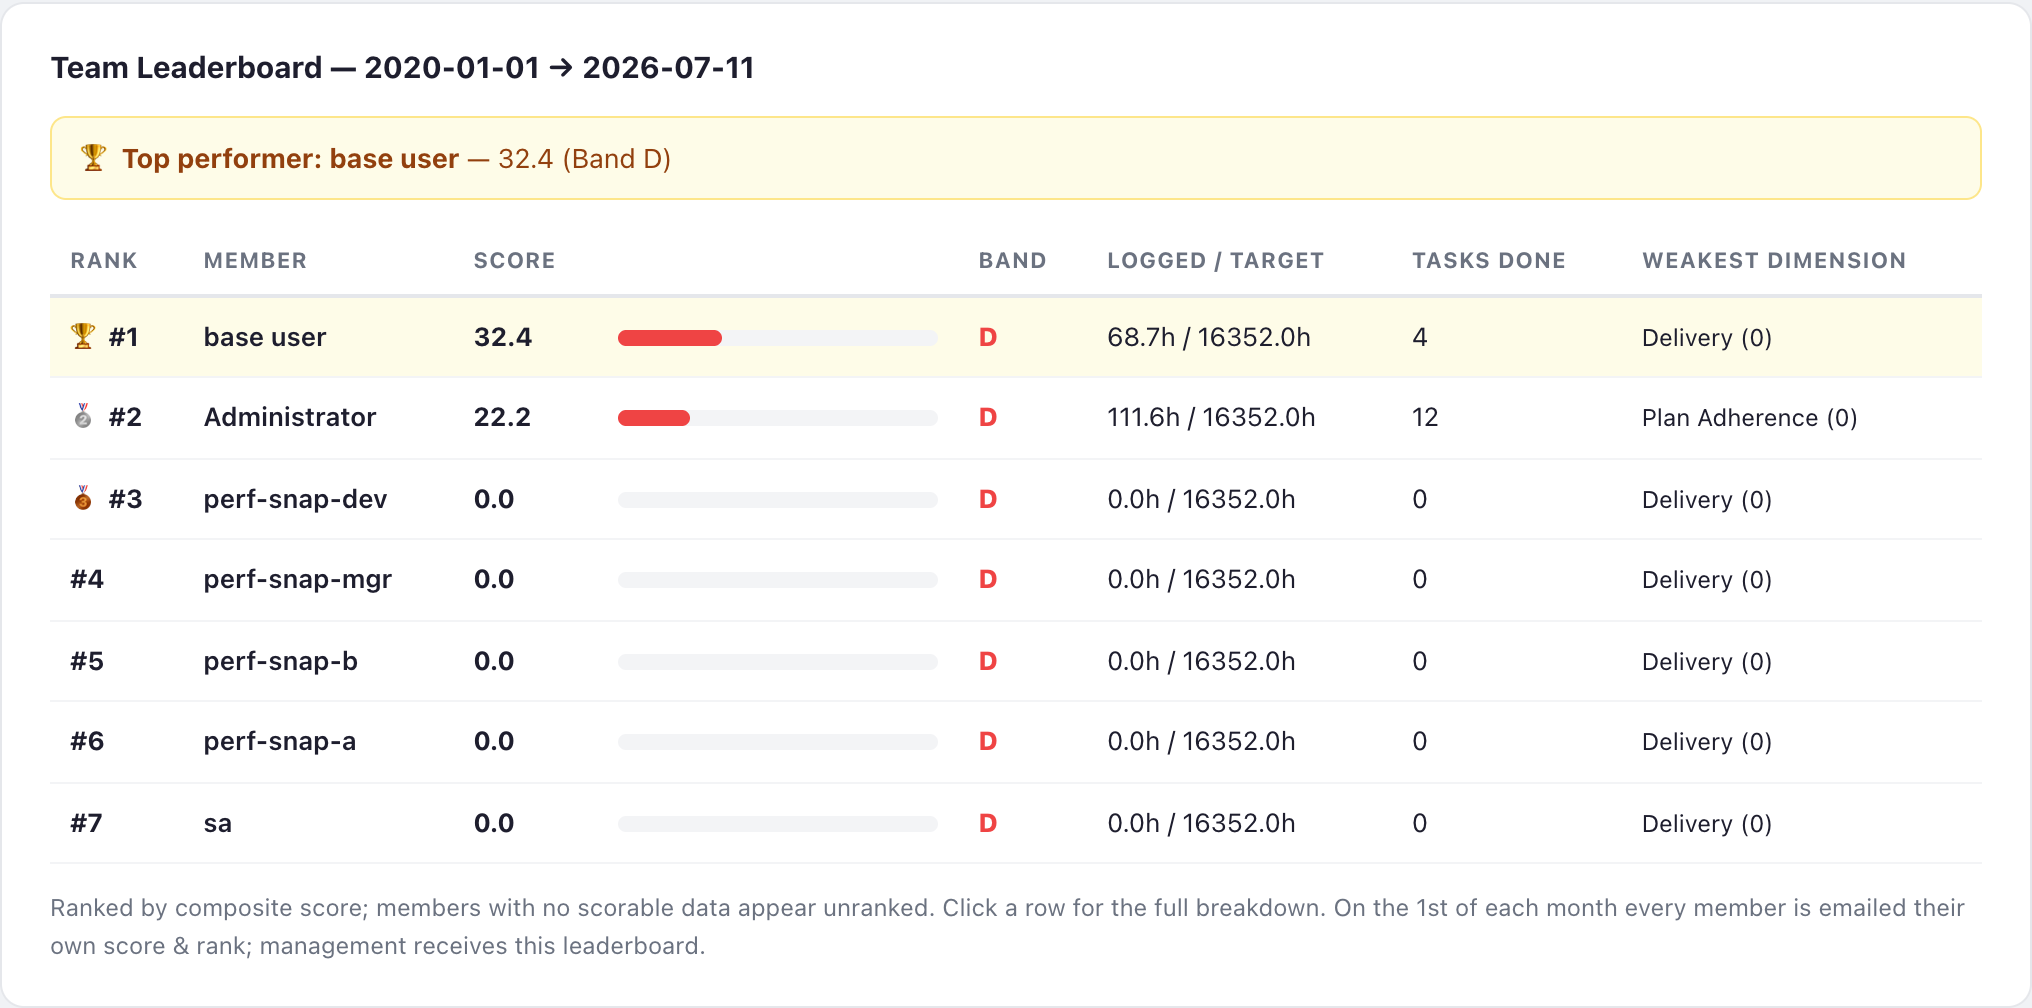
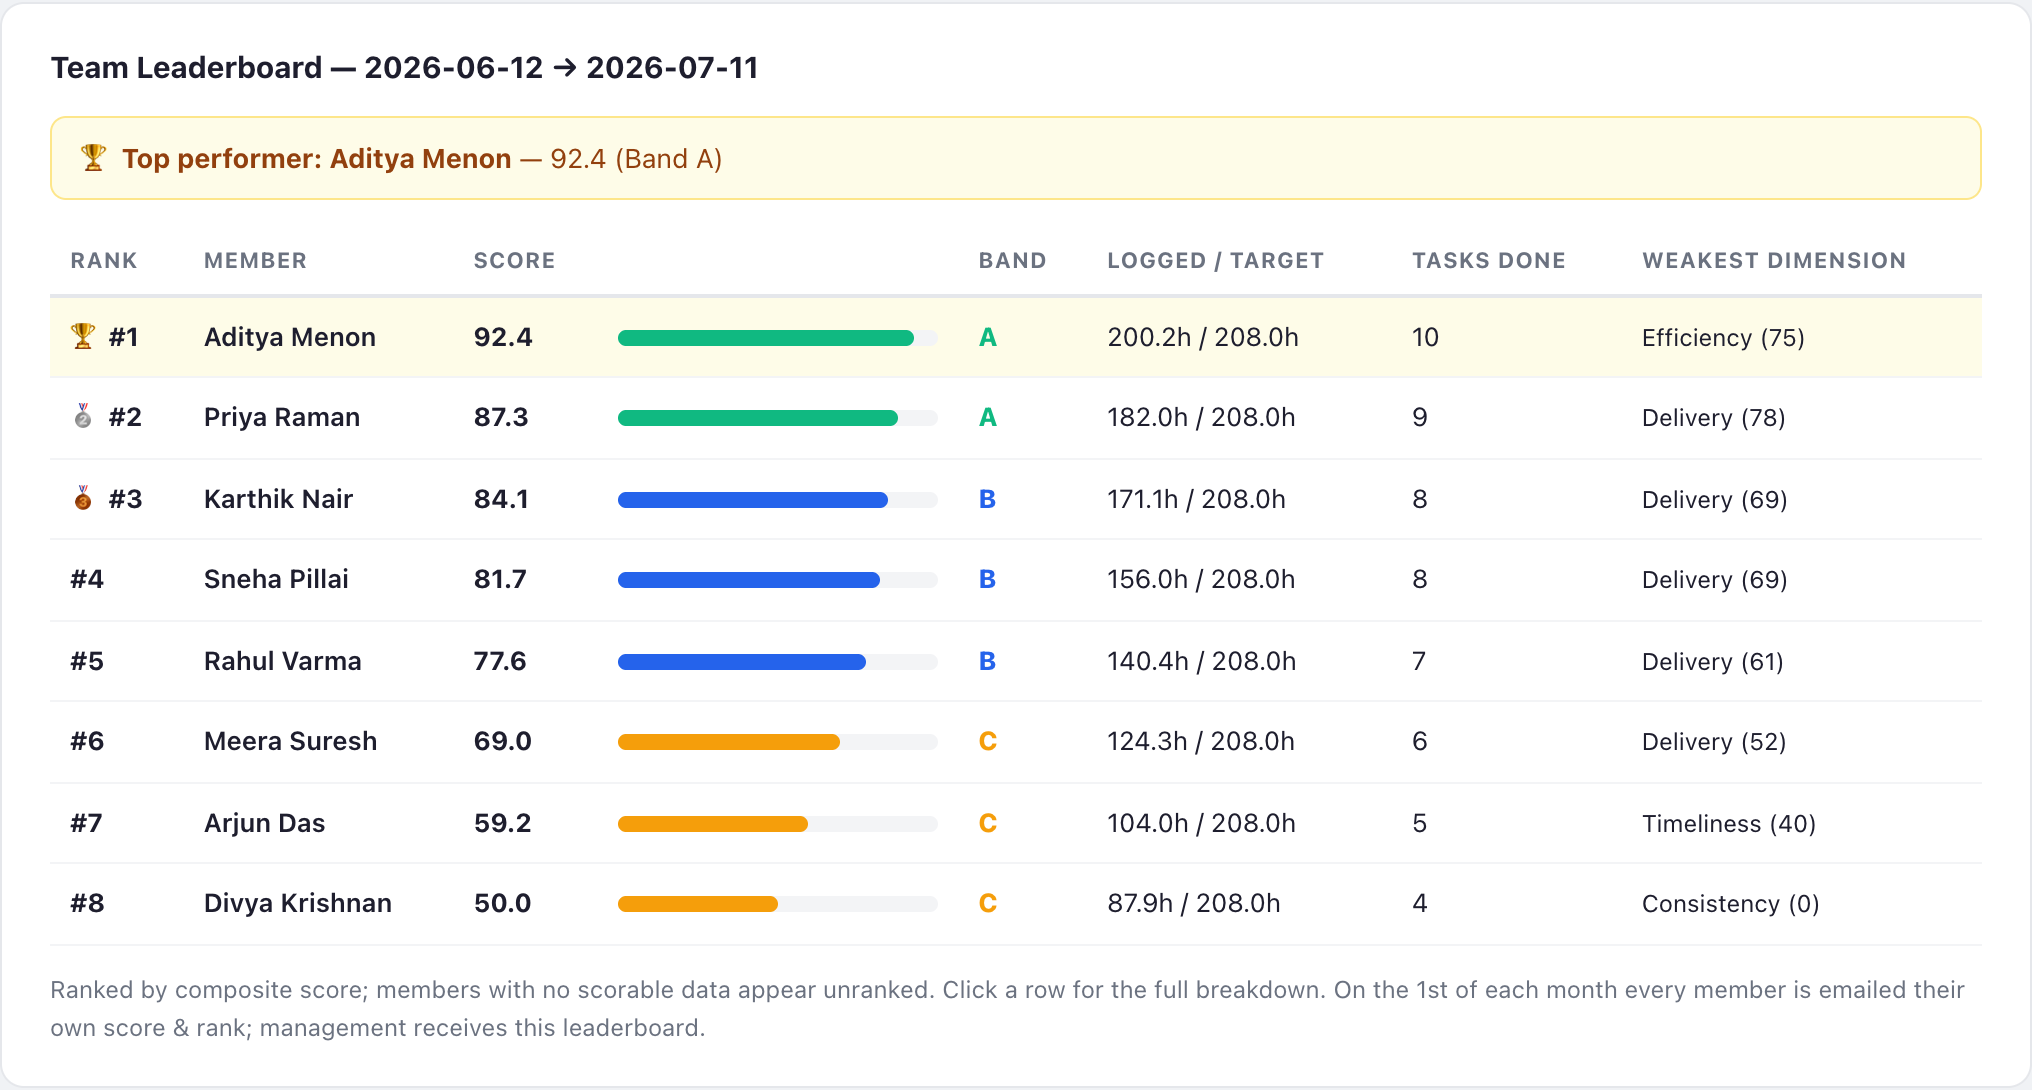
Docs: refresh guide media with realistic data + timer & weekly-plan GIFs
- Re-captured all Performance/Productivity/Tasks stills against a
  seeded 8-member team so the leaderboard shows a real A–C spread and
  named members (no test-user noise); Score History uses a real trend.
- New animated GIFs: timer start→run→stop, and weekly-plan Edit→builder.
- New stills: running timer bar, populated weekly plan, allocation
  matrix builder.
- 16 captioned figures + 3 GIFs total; captions updated to match.

diff --git a/next_pms/www/pms-guide.html b/next_pms/www/pms-guide.html
@@ -207,6 +207,14 @@
       <li><strong>Stop</strong> when done or switching. Duration and cost (hours × your hourly rate) save automatically as a PMS Time Log.</li>
     </ol>
     <p>Review or fix your entries under <strong>Time Logs</strong>. Every report — daily AI report, weekly email, Productivity, Performance — reads from these entries.</p>
+    <figure class="shot gif narrow">
+      <img src="/assets/next_pms/images/guide/timer-start-stop.gif" alt="Animation: Start Timer button becomes a running timer with elapsed time, then stops">
+      <figcaption><span class="tag">▶ Walkthrough</span>One click starts the timer; it counts up live and survives reloads; click again to stop and save a time log.</figcaption>
+    </figure>
+    <figure class="shot">
+      <img src="/assets/next_pms/images/guide/timer-bar.png" alt="Global running-timer bar showing task and elapsed time with a Stop button">
+      <figcaption><span class="tag">Running bar</span>While a timer runs, a bar at the top shows the task and live elapsed time from anywhere in the app — Stop is always one click away.</figcaption>
+    </figure>
     <div class="callout">⚠ Forgot the timer? Log time the same day where possible. Reports window hours by the time-log date; late back-filling distorts your daily consistency metric.</div>
   </section>
 
@@ -228,7 +236,15 @@
     </ul>
     <figure class="shot">
       <img src="/assets/next_pms/images/guide/weekly-plan.png" alt="Weekly Plan projects × people allocation matrix">
-      <figcaption><span class="tag">Weekly Plan</span>The projects × people matrix — planned hours per member, plus priorities, closures and the watch list.</figcaption>
+      <figcaption><span class="tag">Weekly Plan</span>The published plan — hero stats, per-person load vs capacity, and the projects × people allocation matrix.</figcaption>
+    </figure>
+    <figure class="shot gif">
+      <img src="/assets/next_pms/images/guide/weekly-plan.gif" alt="Animation: clicking Edit plan opens the allocation matrix builder">
+      <figcaption><span class="tag">▶ Walkthrough</span>Managers click <strong>Edit plan</strong> (or <strong>+ New week</strong>) to open the matrix builder.</figcaption>
+    </figure>
+    <figure class="shot">
+      <img src="/assets/next_pms/images/guide/weekly-plan-builder.png" alt="Weekly plan allocation matrix builder with capacity and per-cell hours">
+      <figcaption><span class="tag">Matrix builder</span>Set hours per person × project; column totals flag over/under capacity. Tick <strong>Published</strong> to make the week visible and scoreable (feeds Plan Adherence).</figcaption>
     </figure>
   </section>
 
@@ -352,7 +368,7 @@
     </ol>
     <figure class="shot gif">
       <img src="/assets/next_pms/images/guide/perf-adjust.gif" alt="Animation: opening the Adjust editor, entering +3 and a reason, saving, and the row updating">
-      <figcaption><span class="tag">▶ Walkthrough</span>Adjusting May by +3 with a reason — the final score jumps 64.8 → 67.8 and the <code>adj +3.0</code> badge appears, all captured in the version trail.</figcaption>
+      <figcaption><span class="tag">▶ Walkthrough</span>Adjusting April by +2.5 with a reason — the final score rises 88.5 → 91.0 and the <code>adj +2.5</code> badge appears, all captured in the version trail.</figcaption>
     </figure>
     <figure class="shot narrow">
       <img src="/assets/next_pms/images/guide/perf-adjust-editor.png" alt="Inline adjustment editor with number, reason, Save and Cancel">
